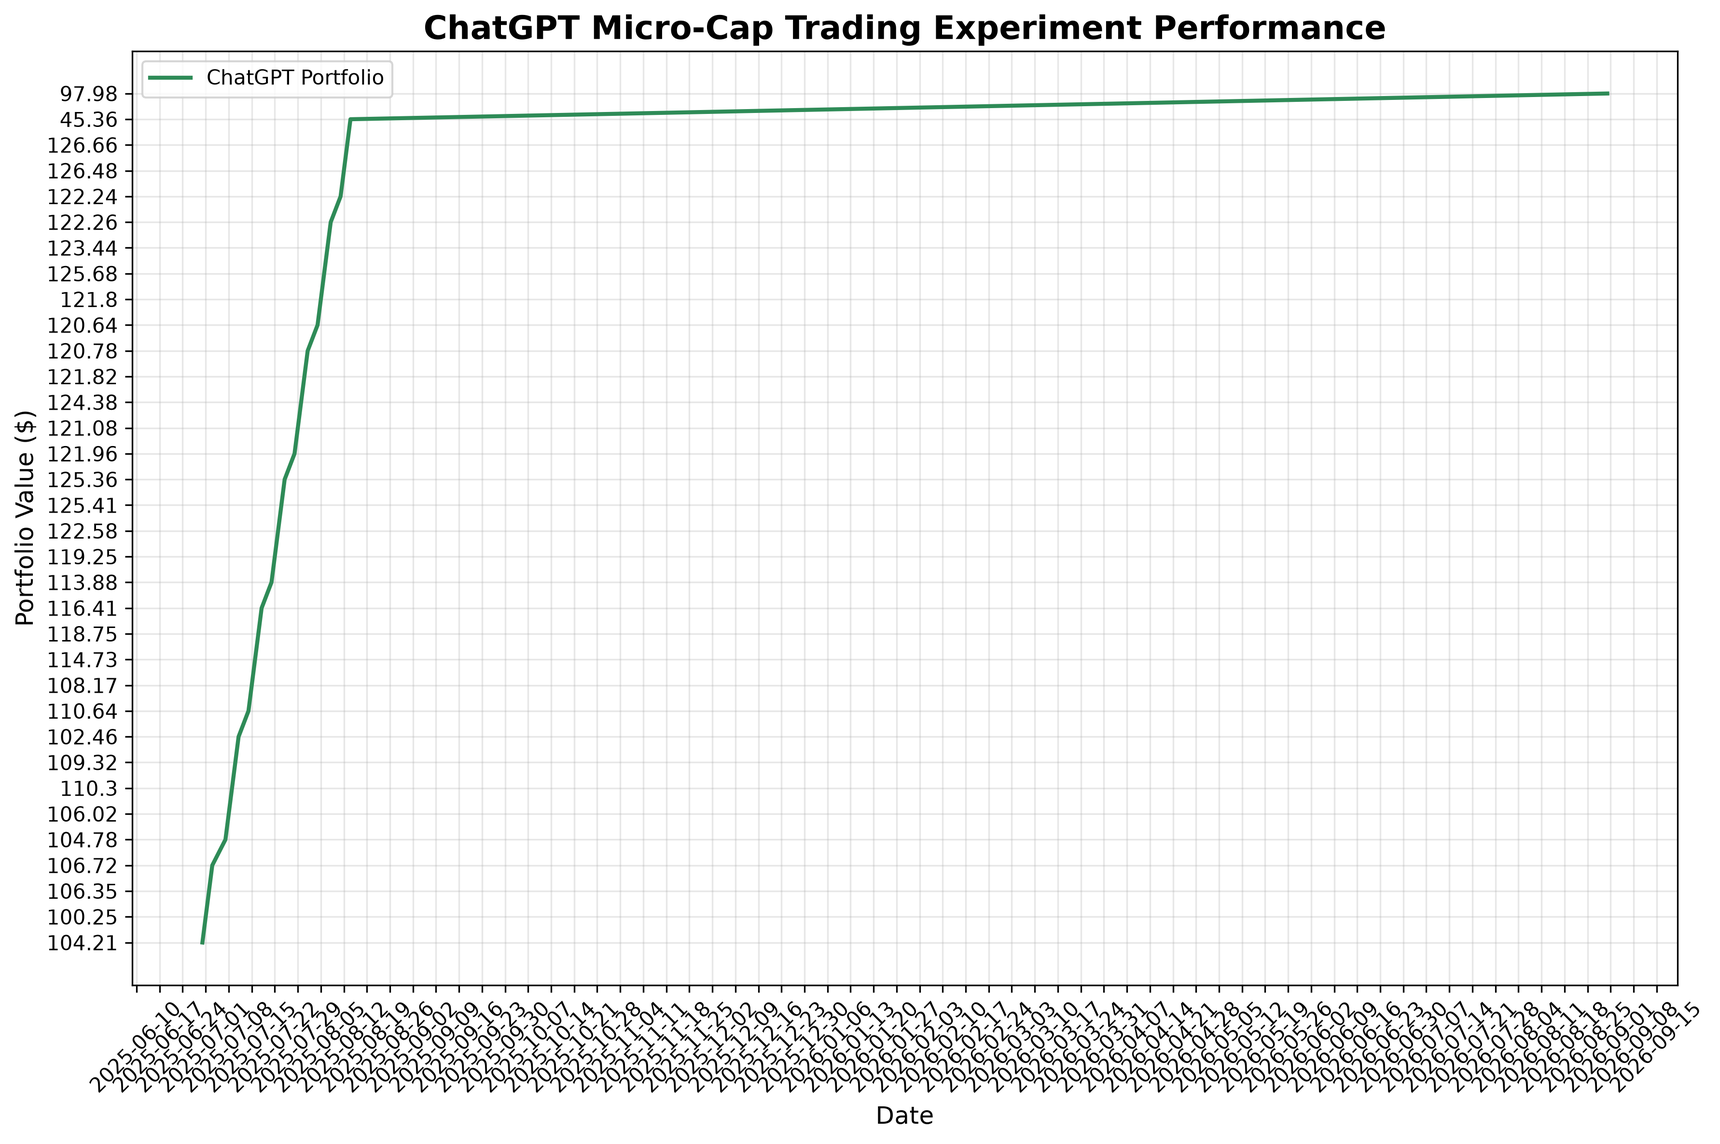
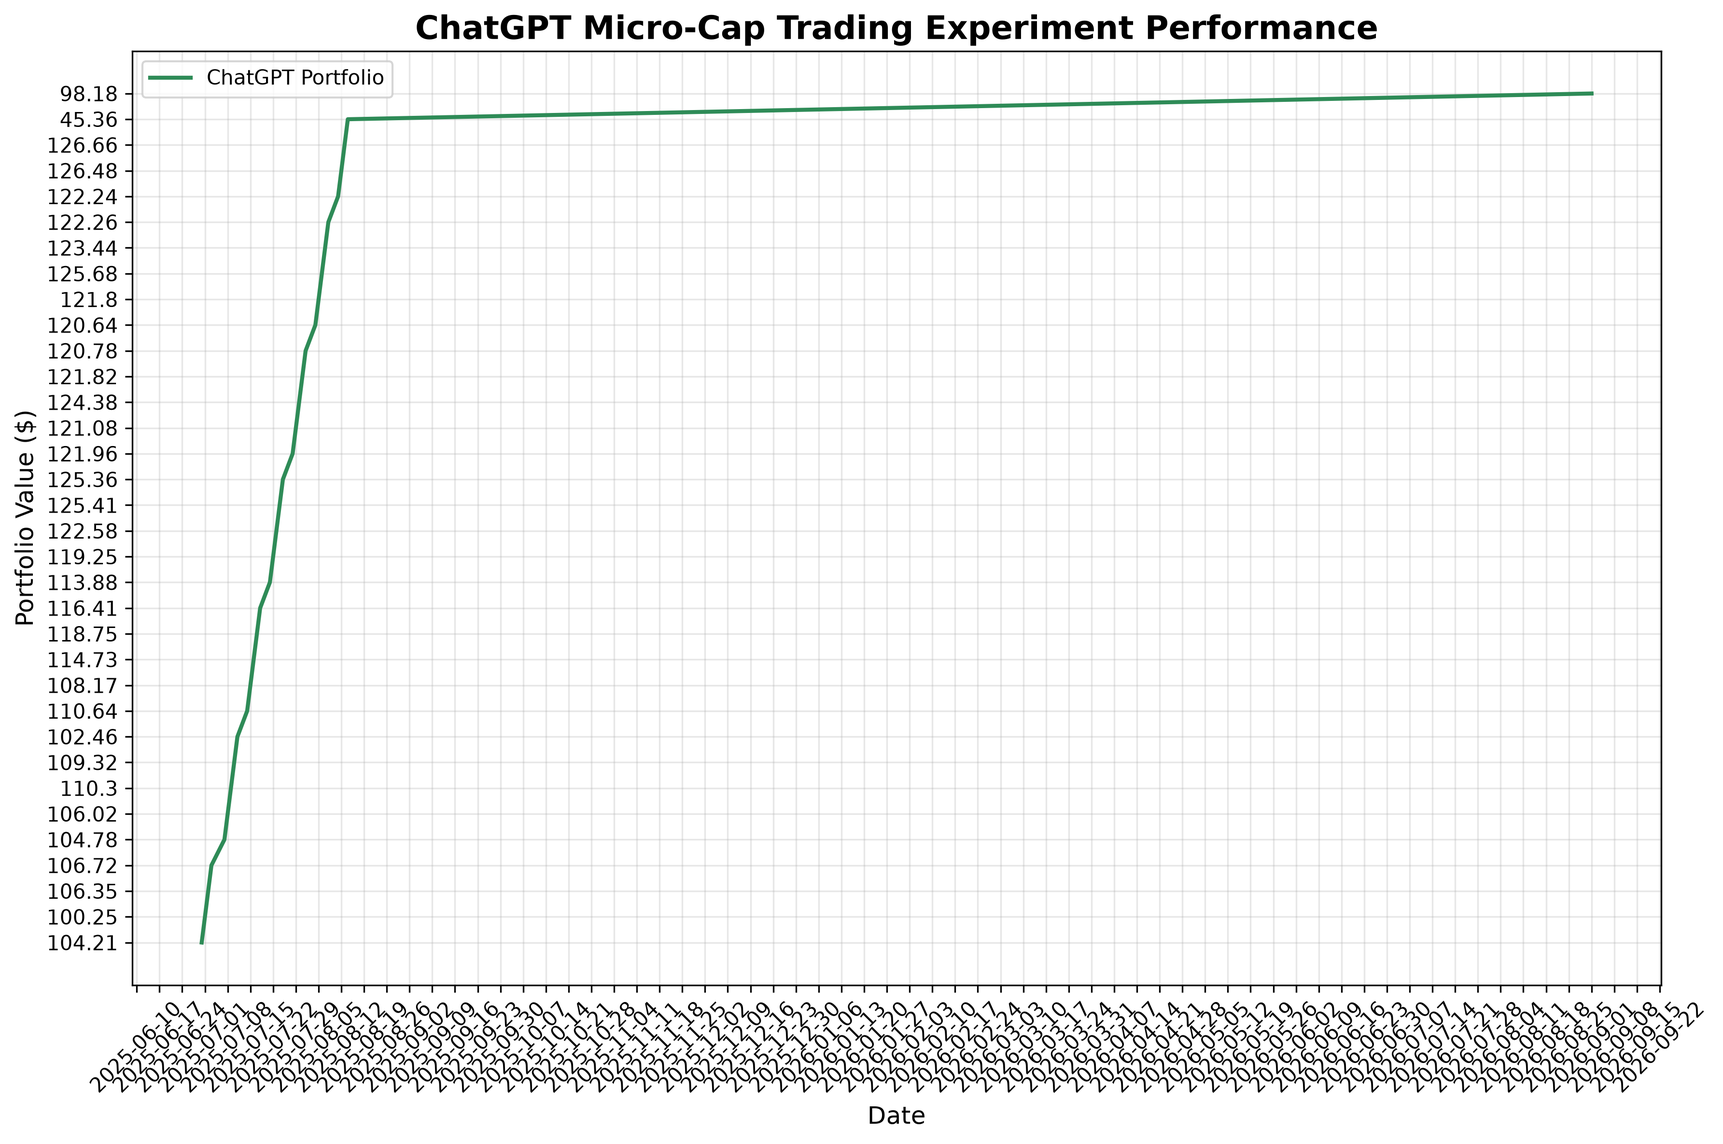
deploy: e15cad030d70fb3fbb51f9df6e22fa70c2f175c0

diff --git a/index.html b/index.html
@@ -105,7 +105,7 @@
                 <div class="stat-label">Total Trades</div>
             </div>
             <div class="stat-card">
-                <div class="stat-value" id="last-updated">2026-08-31</div>
+                <div class="stat-value" id="last-updated">2026-09-01</div>
                 <div class="stat-label">Last Updated</div>
             </div>
         </div>
@@ -160,8 +160,8 @@
     
     <script>
         // Portfolio data
-        const portfolioData = JSON.parse("[{&quot;Date&quot;: &quot;2025-08-11&quot;, &quot;Ticker&quot;: &quot;ABEO&quot;, &quot;Shares&quot;: 4.0, &quot;Buy Price&quot;: 5.77, &quot;Cost Basis&quot;: 23.08, &quot;Stop Loss&quot;: 4.9, &quot;Current Price&quot;: 6.28, &quot;Total Value&quot;: 25.12, &quot;PnL&quot;: 2.04, &quot;Action&quot;: &quot;HOLD&quot;, &quot;Cash Balance&quot;: NaN, &quot;Total Equity&quot;: NaN}, {&quot;Date&quot;: &quot;2025-08-11&quot;, &quot;Ticker&quot;: &quot;ACTU&quot;, &quot;Shares&quot;: 6.0, &quot;Buy Price&quot;: 5.75, &quot;Cost Basis&quot;: 34.5, &quot;Stop Loss&quot;: 4.89, &quot;Current Price&quot;: 8.01, &quot;Total Value&quot;: 48.06, &quot;PnL&quot;: 13.56, &quot;Action&quot;: &quot;HOLD&quot;, &quot;Cash Balance&quot;: NaN, &quot;Total Equity&quot;: NaN}, {&quot;Date&quot;: &quot;2025-08-11&quot;, &quot;Ticker&quot;: &quot;ESPR&quot;, &quot;Shares&quot;: 2.0, &quot;Buy Price&quot;: 1.91, &quot;Cost Basis&quot;: 3.82, &quot;Stop Loss&quot;: 1.6, &quot;Current Price&quot;: 1.85, &quot;Total Value&quot;: 3.7, &quot;PnL&quot;: -0.12, &quot;Action&quot;: &quot;HOLD&quot;, &quot;Cash Balance&quot;: NaN, &quot;Total Equity&quot;: NaN}, {&quot;Date&quot;: &quot;2025-08-11&quot;, &quot;Ticker&quot;: &quot;TOTAL&quot;, &quot;Shares&quot;: NaN, &quot;Buy Price&quot;: NaN, &quot;Cost Basis&quot;: NaN, &quot;Stop Loss&quot;: NaN, &quot;Current Price&quot;: NaN, &quot;Total Value&quot;: 76.88, &quot;PnL&quot;: 15.48, &quot;Action&quot;: NaN, &quot;Cash Balance&quot;: 45.36, &quot;Total Equity&quot;: &quot;122.24&quot;}, {&quot;Date&quot;: &quot;2025-08-12&quot;, &quot;Ticker&quot;: &quot;ABEO&quot;, &quot;Shares&quot;: 4.0, &quot;Buy Price&quot;: 5.77, &quot;Cost Basis&quot;: 23.08, &quot;Stop Loss&quot;: 4.9, &quot;Current Price&quot;: 6.38, &quot;Total Value&quot;: 25.52, &quot;PnL&quot;: 2.44, &quot;Action&quot;: &quot;HOLD&quot;, &quot;Cash Balance&quot;: NaN, &quot;Total Equity&quot;: NaN}, {&quot;Date&quot;: &quot;2025-08-12&quot;, &quot;Ticker&quot;: &quot;ACTU&quot;, &quot;Shares&quot;: 6.0, &quot;Buy Price&quot;: 5.75, &quot;Cost Basis&quot;: 34.5, &quot;Stop Loss&quot;: 4.89, &quot;Current Price&quot;: 8.67, &quot;Total Value&quot;: 52.02, &quot;PnL&quot;: 17.52, &quot;Action&quot;: &quot;HOLD&quot;, &quot;Cash Balance&quot;: NaN, &quot;Total Equity&quot;: NaN}, {&quot;Date&quot;: &quot;2025-08-12&quot;, &quot;Ticker&quot;: &quot;ESPR&quot;, &quot;Shares&quot;: 2.0, &quot;Buy Price&quot;: 1.91, &quot;Cost Basis&quot;: 3.82, &quot;Stop Loss&quot;: 1.6, &quot;Current Price&quot;: 1.79, &quot;Total Value&quot;: 3.58, &quot;PnL&quot;: -0.24, &quot;Action&quot;: &quot;HOLD&quot;, &quot;Cash Balance&quot;: NaN, &quot;Total Equity&quot;: NaN}, {&quot;Date&quot;: &quot;2025-08-12&quot;, &quot;Ticker&quot;: &quot;TOTAL&quot;, &quot;Shares&quot;: NaN, &quot;Buy Price&quot;: NaN, &quot;Cost Basis&quot;: NaN, &quot;Stop Loss&quot;: NaN, &quot;Current Price&quot;: NaN, &quot;Total Value&quot;: 81.12, &quot;PnL&quot;: 19.72, &quot;Action&quot;: NaN, &quot;Cash Balance&quot;: 45.36, &quot;Total Equity&quot;: &quot;126.48&quot;}, {&quot;Date&quot;: &quot;2025-08-13&quot;, &quot;Ticker&quot;: &quot;ABEO&quot;, &quot;Shares&quot;: 4.0, &quot;Buy Price&quot;: 5.77, &quot;Cost Basis&quot;: 23.08, &quot;Stop Loss&quot;: 4.9, &quot;Current Price&quot;: 6.56, &quot;Total Value&quot;: 26.24, &quot;PnL&quot;: 3.16, &quot;Action&quot;: &quot;HOLD&quot;, &quot;Cash Balance&quot;: NaN, &quot;Total Equity&quot;: NaN}, {&quot;Date&quot;: &quot;2025-08-13&quot;, &quot;Ticker&quot;: &quot;ACTU&quot;, &quot;Shares&quot;: 6.0, &quot;Buy Price&quot;: 5.75, &quot;Cost Basis&quot;: 34.5, &quot;Stop Loss&quot;: 4.89, &quot;Current Price&quot;: 8.53, &quot;Total Value&quot;: 51.18, &quot;PnL&quot;: 16.68, &quot;Action&quot;: &quot;HOLD&quot;, &quot;Cash Balance&quot;: NaN, &quot;Total Equity&quot;: NaN}, {&quot;Date&quot;: &quot;2025-08-13&quot;, &quot;Ticker&quot;: &quot;ESPR&quot;, &quot;Shares&quot;: 2.0, &quot;Buy Price&quot;: 1.91, &quot;Cost Basis&quot;: 3.82, &quot;Stop Loss&quot;: 1.6, &quot;Current Price&quot;: 1.94, &quot;Total Value&quot;: 3.88, &quot;PnL&quot;: 0.06, &quot;Action&quot;: &quot;HOLD&quot;, &quot;Cash Balance&quot;: NaN, &quot;Total Equity&quot;: NaN}, {&quot;Date&quot;: &quot;2025-08-13&quot;, &quot;Ticker&quot;: &quot;TOTAL&quot;, &quot;Shares&quot;: NaN, &quot;Buy Price&quot;: NaN, &quot;Cost Basis&quot;: NaN, &quot;Stop Loss&quot;: NaN, &quot;Current Price&quot;: NaN, &quot;Total Value&quot;: 81.3, &quot;PnL&quot;: 19.9, &quot;Action&quot;: NaN, &quot;Cash Balance&quot;: 45.36, &quot;Total Equity&quot;: &quot;126.66&quot;}, {&quot;Date&quot;: &quot;2025-08-14&quot;, &quot;Ticker&quot;: &quot;ABEO&quot;, &quot;Shares&quot;: 4.0, &quot;Buy Price&quot;: 5.77, &quot;Cost Basis&quot;: 23.08, &quot;Stop Loss&quot;: 4.9, &quot;Current Price&quot;: NaN, &quot;Total Value&quot;: NaN, &quot;PnL&quot;: NaN, &quot;Action&quot;: &quot;NO DATA&quot;, &quot;Cash Balance&quot;: NaN, &quot;Total Equity&quot;: NaN}, {&quot;Date&quot;: &quot;2025-08-14&quot;, &quot;Ticker&quot;: &quot;ACTU&quot;, &quot;Shares&quot;: 6.0, &quot;Buy Price&quot;: 5.75, &quot;Cost Basis&quot;: 34.5, &quot;Stop Loss&quot;: 4.89, &quot;Current Price&quot;: NaN, &quot;Total Value&quot;: NaN, &quot;PnL&quot;: NaN, &quot;Action&quot;: &quot;NO DATA&quot;, &quot;Cash Balance&quot;: NaN, &quot;Total Equity&quot;: NaN}, {&quot;Date&quot;: &quot;2025-08-14&quot;, &quot;Ticker&quot;: &quot;ESPR&quot;, &quot;Shares&quot;: 2.0, &quot;Buy Price&quot;: 1.91, &quot;Cost Basis&quot;: 3.82, &quot;Stop Loss&quot;: 1.6, &quot;Current Price&quot;: NaN, &quot;Total Value&quot;: NaN, &quot;PnL&quot;: NaN, &quot;Action&quot;: &quot;NO DATA&quot;, &quot;Cash Balance&quot;: NaN, &quot;Total Equity&quot;: NaN}, {&quot;Date&quot;: &quot;2025-08-14&quot;, &quot;Ticker&quot;: &quot;TOTAL&quot;, &quot;Shares&quot;: NaN, &quot;Buy Price&quot;: NaN, &quot;Cost Basis&quot;: NaN, &quot;Stop Loss&quot;: NaN, &quot;Current Price&quot;: NaN, &quot;Total Value&quot;: 0.0, &quot;PnL&quot;: 0.0, &quot;Action&quot;: NaN, &quot;Cash Balance&quot;: 45.36, &quot;Total Equity&quot;: &quot;45.36&quot;}, {&quot;Date&quot;: &quot;2026-08-31&quot;, &quot;Ticker&quot;: &quot;ABEO&quot;, &quot;Shares&quot;: 4.0, &quot;Buy Price&quot;: 5.77, &quot;Cost Basis&quot;: 23.08, &quot;Stop Loss&quot;: 4.9, &quot;Current Price&quot;: 5.82, &quot;Total Value&quot;: 23.28, &quot;PnL&quot;: 0.2, &quot;Action&quot;: &quot;HOLD&quot;, &quot;Cash Balance&quot;: NaN, &quot;Total Equity&quot;: NaN}, {&quot;Date&quot;: &quot;2026-08-31&quot;, &quot;Ticker&quot;: &quot;ACTU&quot;, &quot;Shares&quot;: 6.0, &quot;Buy Price&quot;: 5.75, &quot;Cost Basis&quot;: 34.5, &quot;Stop Loss&quot;: 4.89, &quot;Current Price&quot;: 4.89, &quot;Total Value&quot;: 29.34, &quot;PnL&quot;: -5.16, &quot;Action&quot;: &quot;SELL - Stop Loss Triggered&quot;, &quot;Cash Balance&quot;: NaN, &quot;Total Equity&quot;: NaN}, {&quot;Date&quot;: &quot;2026-08-31&quot;, &quot;Ticker&quot;: &quot;ESPR&quot;, &quot;Shares&quot;: 2.0, &quot;Buy Price&quot;: 1.91, &quot;Cost Basis&quot;: 3.82, &quot;Stop Loss&quot;: 1.6, &quot;Current Price&quot;: NaN, &quot;Total Value&quot;: NaN, &quot;PnL&quot;: NaN, &quot;Action&quot;: &quot;NO DATA&quot;, &quot;Cash Balance&quot;: NaN, &quot;Total Equity&quot;: NaN}, {&quot;Date&quot;: &quot;2026-08-31&quot;, &quot;Ticker&quot;: &quot;TOTAL&quot;, &quot;Shares&quot;: NaN, &quot;Buy Price&quot;: NaN, &quot;Cost Basis&quot;: NaN, &quot;Stop Loss&quot;: NaN, &quot;Current Price&quot;: NaN, &quot;Total Value&quot;: 23.28, &quot;PnL&quot;: 0.2, &quot;Action&quot;: NaN, &quot;Cash Balance&quot;: 74.7, &quot;Total Equity&quot;: &quot;97.98&quot;}]");
-        const tradeData = JSON.parse("[{&quot;Date&quot;: &quot;2025-07-08&quot;, &quot;Ticker&quot;: &quot;IINN&quot;, &quot;Shares Bought&quot;: 20.0, &quot;Buy Price&quot;: 1.5, &quot;Cost Basis&quot;: 30.0, &quot;PnL&quot;: 0.0, &quot;Reason&quot;: &quot;MANUAL BUY - New position&quot;, &quot;Shares Sold&quot;: NaN, &quot;Sell Price&quot;: NaN}, {&quot;Date&quot;: &quot;2025-07-21&quot;, &quot;Ticker&quot;: &quot;CADL&quot;, &quot;Shares Bought&quot;: NaN, &quot;Buy Price&quot;: NaN, &quot;Cost Basis&quot;: 25.2, &quot;PnL&quot;: 8.5, &quot;Reason&quot;: &quot;MANUAL SELL - GAIN CAPITAL FOR ACTU&quot;, &quot;Shares Sold&quot;: 5.0, &quot;Sell Price&quot;: 6.59}, {&quot;Date&quot;: &quot;2025-07-21&quot;, &quot;Ticker&quot;: &quot;ACTU&quot;, &quot;Shares Bought&quot;: 6.0, &quot;Buy Price&quot;: 5.75, &quot;Cost Basis&quot;: 34.5, &quot;PnL&quot;: 0.0, &quot;Reason&quot;: &quot;MANUAL BUY - New position&quot;, &quot;Shares Sold&quot;: NaN, &quot;Sell Price&quot;: NaN}, {&quot;Date&quot;: &quot;2025-07-28&quot;, &quot;Ticker&quot;: &quot;IINN&quot;, &quot;Shares Bought&quot;: NaN, &quot;Buy Price&quot;: NaN, &quot;Cost Basis&quot;: 9.0, &quot;PnL&quot;: -0.5400000000000009, &quot;Reason&quot;: &quot;MANUAL SELL - POSITION REDUCTION&quot;, &quot;Shares Sold&quot;: 6.0, &quot;Sell Price&quot;: 1.41}, {&quot;Date&quot;: &quot;2025-07-29&quot;, &quot;Ticker&quot;: &quot;AZTR&quot;, &quot;Shares Bought&quot;: NaN, &quot;Buy Price&quot;: NaN, &quot;Cost Basis&quot;: 13.75, &quot;PnL&quot;: -2.75, &quot;Reason&quot;: &quot;MANUAL SELL - DILUTION RISK&quot;, &quot;Shares Sold&quot;: 55.0, &quot;Sell Price&quot;: 0.2}, {&quot;Date&quot;: &quot;2025-08-01&quot;, &quot;Ticker&quot;: &quot;IINN&quot;, &quot;Shares Bought&quot;: 2.0, &quot;Buy Price&quot;: 1.74, &quot;Cost Basis&quot;: 3.48, &quot;PnL&quot;: 0.0, &quot;Reason&quot;: &quot;MANUAL BUY - New position&quot;, &quot;Shares Sold&quot;: NaN, &quot;Sell Price&quot;: NaN}, {&quot;Date&quot;: &quot;2025-08-01&quot;, &quot;Ticker&quot;: &quot;ABEO&quot;, &quot;Shares Bought&quot;: NaN, &quot;Buy Price&quot;: NaN, &quot;Cost Basis&quot;: 11.54, &quot;PnL&quot;: 1.200000000000001, &quot;Reason&quot;: &quot;MANUAL SELL - TRIM AFTER SUPPORT LOSS&quot;, &quot;Shares Sold&quot;: 2.0, &quot;Sell Price&quot;: 6.37}, {&quot;Date&quot;: &quot;2025-08-07&quot;, &quot;Ticker&quot;: &quot;ESPR&quot;, &quot;Shares Bought&quot;: 2.0, &quot;Buy Price&quot;: 1.91, &quot;Cost Basis&quot;: 3.82, &quot;PnL&quot;: 0.0, &quot;Reason&quot;: &quot;MANUAL BUY - New position&quot;, &quot;Shares Sold&quot;: NaN, &quot;Sell Price&quot;: NaN}, {&quot;Date&quot;: &quot;2025-08-08&quot;, &quot;Ticker&quot;: &quot;IINN&quot;, &quot;Shares Bought&quot;: NaN, &quot;Buy Price&quot;: NaN, &quot;Cost Basis&quot;: 1.5, &quot;PnL&quot;: -6.4, &quot;Reason&quot;: &quot;AUTOMATED SELL - STOPLOSS TRIGGERED&quot;, &quot;Shares Sold&quot;: 16.0, &quot;Sell Price&quot;: 1.1}, {&quot;Date&quot;: &quot;2026-08-31&quot;, &quot;Ticker&quot;: &quot;ACTU&quot;, &quot;Shares Bought&quot;: NaN, &quot;Buy Price&quot;: NaN, &quot;Cost Basis&quot;: 5.75, &quot;PnL&quot;: -5.16, &quot;Reason&quot;: &quot;AUTOMATED SELL - STOPLOSS TRIGGERED&quot;, &quot;Shares Sold&quot;: 6.0, &quot;Sell Price&quot;: 4.89}]");
+        const portfolioData = JSON.parse("[{&quot;Date&quot;: &quot;2025-08-11&quot;, &quot;Ticker&quot;: &quot;ABEO&quot;, &quot;Shares&quot;: 4.0, &quot;Buy Price&quot;: 5.77, &quot;Cost Basis&quot;: 23.08, &quot;Stop Loss&quot;: 4.9, &quot;Current Price&quot;: 6.28, &quot;Total Value&quot;: 25.12, &quot;PnL&quot;: 2.04, &quot;Action&quot;: &quot;HOLD&quot;, &quot;Cash Balance&quot;: NaN, &quot;Total Equity&quot;: NaN}, {&quot;Date&quot;: &quot;2025-08-11&quot;, &quot;Ticker&quot;: &quot;ACTU&quot;, &quot;Shares&quot;: 6.0, &quot;Buy Price&quot;: 5.75, &quot;Cost Basis&quot;: 34.5, &quot;Stop Loss&quot;: 4.89, &quot;Current Price&quot;: 8.01, &quot;Total Value&quot;: 48.06, &quot;PnL&quot;: 13.56, &quot;Action&quot;: &quot;HOLD&quot;, &quot;Cash Balance&quot;: NaN, &quot;Total Equity&quot;: NaN}, {&quot;Date&quot;: &quot;2025-08-11&quot;, &quot;Ticker&quot;: &quot;ESPR&quot;, &quot;Shares&quot;: 2.0, &quot;Buy Price&quot;: 1.91, &quot;Cost Basis&quot;: 3.82, &quot;Stop Loss&quot;: 1.6, &quot;Current Price&quot;: 1.85, &quot;Total Value&quot;: 3.7, &quot;PnL&quot;: -0.12, &quot;Action&quot;: &quot;HOLD&quot;, &quot;Cash Balance&quot;: NaN, &quot;Total Equity&quot;: NaN}, {&quot;Date&quot;: &quot;2025-08-11&quot;, &quot;Ticker&quot;: &quot;TOTAL&quot;, &quot;Shares&quot;: NaN, &quot;Buy Price&quot;: NaN, &quot;Cost Basis&quot;: NaN, &quot;Stop Loss&quot;: NaN, &quot;Current Price&quot;: NaN, &quot;Total Value&quot;: 76.88, &quot;PnL&quot;: 15.48, &quot;Action&quot;: NaN, &quot;Cash Balance&quot;: 45.36, &quot;Total Equity&quot;: &quot;122.24&quot;}, {&quot;Date&quot;: &quot;2025-08-12&quot;, &quot;Ticker&quot;: &quot;ABEO&quot;, &quot;Shares&quot;: 4.0, &quot;Buy Price&quot;: 5.77, &quot;Cost Basis&quot;: 23.08, &quot;Stop Loss&quot;: 4.9, &quot;Current Price&quot;: 6.38, &quot;Total Value&quot;: 25.52, &quot;PnL&quot;: 2.44, &quot;Action&quot;: &quot;HOLD&quot;, &quot;Cash Balance&quot;: NaN, &quot;Total Equity&quot;: NaN}, {&quot;Date&quot;: &quot;2025-08-12&quot;, &quot;Ticker&quot;: &quot;ACTU&quot;, &quot;Shares&quot;: 6.0, &quot;Buy Price&quot;: 5.75, &quot;Cost Basis&quot;: 34.5, &quot;Stop Loss&quot;: 4.89, &quot;Current Price&quot;: 8.67, &quot;Total Value&quot;: 52.02, &quot;PnL&quot;: 17.52, &quot;Action&quot;: &quot;HOLD&quot;, &quot;Cash Balance&quot;: NaN, &quot;Total Equity&quot;: NaN}, {&quot;Date&quot;: &quot;2025-08-12&quot;, &quot;Ticker&quot;: &quot;ESPR&quot;, &quot;Shares&quot;: 2.0, &quot;Buy Price&quot;: 1.91, &quot;Cost Basis&quot;: 3.82, &quot;Stop Loss&quot;: 1.6, &quot;Current Price&quot;: 1.79, &quot;Total Value&quot;: 3.58, &quot;PnL&quot;: -0.24, &quot;Action&quot;: &quot;HOLD&quot;, &quot;Cash Balance&quot;: NaN, &quot;Total Equity&quot;: NaN}, {&quot;Date&quot;: &quot;2025-08-12&quot;, &quot;Ticker&quot;: &quot;TOTAL&quot;, &quot;Shares&quot;: NaN, &quot;Buy Price&quot;: NaN, &quot;Cost Basis&quot;: NaN, &quot;Stop Loss&quot;: NaN, &quot;Current Price&quot;: NaN, &quot;Total Value&quot;: 81.12, &quot;PnL&quot;: 19.72, &quot;Action&quot;: NaN, &quot;Cash Balance&quot;: 45.36, &quot;Total Equity&quot;: &quot;126.48&quot;}, {&quot;Date&quot;: &quot;2025-08-13&quot;, &quot;Ticker&quot;: &quot;ABEO&quot;, &quot;Shares&quot;: 4.0, &quot;Buy Price&quot;: 5.77, &quot;Cost Basis&quot;: 23.08, &quot;Stop Loss&quot;: 4.9, &quot;Current Price&quot;: 6.56, &quot;Total Value&quot;: 26.24, &quot;PnL&quot;: 3.16, &quot;Action&quot;: &quot;HOLD&quot;, &quot;Cash Balance&quot;: NaN, &quot;Total Equity&quot;: NaN}, {&quot;Date&quot;: &quot;2025-08-13&quot;, &quot;Ticker&quot;: &quot;ACTU&quot;, &quot;Shares&quot;: 6.0, &quot;Buy Price&quot;: 5.75, &quot;Cost Basis&quot;: 34.5, &quot;Stop Loss&quot;: 4.89, &quot;Current Price&quot;: 8.53, &quot;Total Value&quot;: 51.18, &quot;PnL&quot;: 16.68, &quot;Action&quot;: &quot;HOLD&quot;, &quot;Cash Balance&quot;: NaN, &quot;Total Equity&quot;: NaN}, {&quot;Date&quot;: &quot;2025-08-13&quot;, &quot;Ticker&quot;: &quot;ESPR&quot;, &quot;Shares&quot;: 2.0, &quot;Buy Price&quot;: 1.91, &quot;Cost Basis&quot;: 3.82, &quot;Stop Loss&quot;: 1.6, &quot;Current Price&quot;: 1.94, &quot;Total Value&quot;: 3.88, &quot;PnL&quot;: 0.06, &quot;Action&quot;: &quot;HOLD&quot;, &quot;Cash Balance&quot;: NaN, &quot;Total Equity&quot;: NaN}, {&quot;Date&quot;: &quot;2025-08-13&quot;, &quot;Ticker&quot;: &quot;TOTAL&quot;, &quot;Shares&quot;: NaN, &quot;Buy Price&quot;: NaN, &quot;Cost Basis&quot;: NaN, &quot;Stop Loss&quot;: NaN, &quot;Current Price&quot;: NaN, &quot;Total Value&quot;: 81.3, &quot;PnL&quot;: 19.9, &quot;Action&quot;: NaN, &quot;Cash Balance&quot;: 45.36, &quot;Total Equity&quot;: &quot;126.66&quot;}, {&quot;Date&quot;: &quot;2025-08-14&quot;, &quot;Ticker&quot;: &quot;ABEO&quot;, &quot;Shares&quot;: 4.0, &quot;Buy Price&quot;: 5.77, &quot;Cost Basis&quot;: 23.08, &quot;Stop Loss&quot;: 4.9, &quot;Current Price&quot;: NaN, &quot;Total Value&quot;: NaN, &quot;PnL&quot;: NaN, &quot;Action&quot;: &quot;NO DATA&quot;, &quot;Cash Balance&quot;: NaN, &quot;Total Equity&quot;: NaN}, {&quot;Date&quot;: &quot;2025-08-14&quot;, &quot;Ticker&quot;: &quot;ACTU&quot;, &quot;Shares&quot;: 6.0, &quot;Buy Price&quot;: 5.75, &quot;Cost Basis&quot;: 34.5, &quot;Stop Loss&quot;: 4.89, &quot;Current Price&quot;: NaN, &quot;Total Value&quot;: NaN, &quot;PnL&quot;: NaN, &quot;Action&quot;: &quot;NO DATA&quot;, &quot;Cash Balance&quot;: NaN, &quot;Total Equity&quot;: NaN}, {&quot;Date&quot;: &quot;2025-08-14&quot;, &quot;Ticker&quot;: &quot;ESPR&quot;, &quot;Shares&quot;: 2.0, &quot;Buy Price&quot;: 1.91, &quot;Cost Basis&quot;: 3.82, &quot;Stop Loss&quot;: 1.6, &quot;Current Price&quot;: NaN, &quot;Total Value&quot;: NaN, &quot;PnL&quot;: NaN, &quot;Action&quot;: &quot;NO DATA&quot;, &quot;Cash Balance&quot;: NaN, &quot;Total Equity&quot;: NaN}, {&quot;Date&quot;: &quot;2025-08-14&quot;, &quot;Ticker&quot;: &quot;TOTAL&quot;, &quot;Shares&quot;: NaN, &quot;Buy Price&quot;: NaN, &quot;Cost Basis&quot;: NaN, &quot;Stop Loss&quot;: NaN, &quot;Current Price&quot;: NaN, &quot;Total Value&quot;: 0.0, &quot;PnL&quot;: 0.0, &quot;Action&quot;: NaN, &quot;Cash Balance&quot;: 45.36, &quot;Total Equity&quot;: &quot;45.36&quot;}, {&quot;Date&quot;: &quot;2026-09-01&quot;, &quot;Ticker&quot;: &quot;ABEO&quot;, &quot;Shares&quot;: 4.0, &quot;Buy Price&quot;: 5.77, &quot;Cost Basis&quot;: 23.08, &quot;Stop Loss&quot;: 4.9, &quot;Current Price&quot;: 5.87, &quot;Total Value&quot;: 23.48, &quot;PnL&quot;: 0.4, &quot;Action&quot;: &quot;HOLD&quot;, &quot;Cash Balance&quot;: NaN, &quot;Total Equity&quot;: NaN}, {&quot;Date&quot;: &quot;2026-09-01&quot;, &quot;Ticker&quot;: &quot;ACTU&quot;, &quot;Shares&quot;: 6.0, &quot;Buy Price&quot;: 5.75, &quot;Cost Basis&quot;: 34.5, &quot;Stop Loss&quot;: 4.89, &quot;Current Price&quot;: 4.89, &quot;Total Value&quot;: 29.34, &quot;PnL&quot;: -5.16, &quot;Action&quot;: &quot;SELL - Stop Loss Triggered&quot;, &quot;Cash Balance&quot;: NaN, &quot;Total Equity&quot;: NaN}, {&quot;Date&quot;: &quot;2026-09-01&quot;, &quot;Ticker&quot;: &quot;ESPR&quot;, &quot;Shares&quot;: 2.0, &quot;Buy Price&quot;: 1.91, &quot;Cost Basis&quot;: 3.82, &quot;Stop Loss&quot;: 1.6, &quot;Current Price&quot;: NaN, &quot;Total Value&quot;: NaN, &quot;PnL&quot;: NaN, &quot;Action&quot;: &quot;NO DATA&quot;, &quot;Cash Balance&quot;: NaN, &quot;Total Equity&quot;: NaN}, {&quot;Date&quot;: &quot;2026-09-01&quot;, &quot;Ticker&quot;: &quot;TOTAL&quot;, &quot;Shares&quot;: NaN, &quot;Buy Price&quot;: NaN, &quot;Cost Basis&quot;: NaN, &quot;Stop Loss&quot;: NaN, &quot;Current Price&quot;: NaN, &quot;Total Value&quot;: 23.48, &quot;PnL&quot;: 0.4, &quot;Action&quot;: NaN, &quot;Cash Balance&quot;: 74.7, &quot;Total Equity&quot;: &quot;98.18&quot;}]");
+        const tradeData = JSON.parse("[{&quot;Date&quot;: &quot;2025-07-08&quot;, &quot;Ticker&quot;: &quot;IINN&quot;, &quot;Shares Bought&quot;: 20.0, &quot;Buy Price&quot;: 1.5, &quot;Cost Basis&quot;: 30.0, &quot;PnL&quot;: 0.0, &quot;Reason&quot;: &quot;MANUAL BUY - New position&quot;, &quot;Shares Sold&quot;: NaN, &quot;Sell Price&quot;: NaN}, {&quot;Date&quot;: &quot;2025-07-21&quot;, &quot;Ticker&quot;: &quot;CADL&quot;, &quot;Shares Bought&quot;: NaN, &quot;Buy Price&quot;: NaN, &quot;Cost Basis&quot;: 25.2, &quot;PnL&quot;: 8.5, &quot;Reason&quot;: &quot;MANUAL SELL - GAIN CAPITAL FOR ACTU&quot;, &quot;Shares Sold&quot;: 5.0, &quot;Sell Price&quot;: 6.59}, {&quot;Date&quot;: &quot;2025-07-21&quot;, &quot;Ticker&quot;: &quot;ACTU&quot;, &quot;Shares Bought&quot;: 6.0, &quot;Buy Price&quot;: 5.75, &quot;Cost Basis&quot;: 34.5, &quot;PnL&quot;: 0.0, &quot;Reason&quot;: &quot;MANUAL BUY - New position&quot;, &quot;Shares Sold&quot;: NaN, &quot;Sell Price&quot;: NaN}, {&quot;Date&quot;: &quot;2025-07-28&quot;, &quot;Ticker&quot;: &quot;IINN&quot;, &quot;Shares Bought&quot;: NaN, &quot;Buy Price&quot;: NaN, &quot;Cost Basis&quot;: 9.0, &quot;PnL&quot;: -0.5400000000000009, &quot;Reason&quot;: &quot;MANUAL SELL - POSITION REDUCTION&quot;, &quot;Shares Sold&quot;: 6.0, &quot;Sell Price&quot;: 1.41}, {&quot;Date&quot;: &quot;2025-07-29&quot;, &quot;Ticker&quot;: &quot;AZTR&quot;, &quot;Shares Bought&quot;: NaN, &quot;Buy Price&quot;: NaN, &quot;Cost Basis&quot;: 13.75, &quot;PnL&quot;: -2.75, &quot;Reason&quot;: &quot;MANUAL SELL - DILUTION RISK&quot;, &quot;Shares Sold&quot;: 55.0, &quot;Sell Price&quot;: 0.2}, {&quot;Date&quot;: &quot;2025-08-01&quot;, &quot;Ticker&quot;: &quot;IINN&quot;, &quot;Shares Bought&quot;: 2.0, &quot;Buy Price&quot;: 1.74, &quot;Cost Basis&quot;: 3.48, &quot;PnL&quot;: 0.0, &quot;Reason&quot;: &quot;MANUAL BUY - New position&quot;, &quot;Shares Sold&quot;: NaN, &quot;Sell Price&quot;: NaN}, {&quot;Date&quot;: &quot;2025-08-01&quot;, &quot;Ticker&quot;: &quot;ABEO&quot;, &quot;Shares Bought&quot;: NaN, &quot;Buy Price&quot;: NaN, &quot;Cost Basis&quot;: 11.54, &quot;PnL&quot;: 1.200000000000001, &quot;Reason&quot;: &quot;MANUAL SELL - TRIM AFTER SUPPORT LOSS&quot;, &quot;Shares Sold&quot;: 2.0, &quot;Sell Price&quot;: 6.37}, {&quot;Date&quot;: &quot;2025-08-07&quot;, &quot;Ticker&quot;: &quot;ESPR&quot;, &quot;Shares Bought&quot;: 2.0, &quot;Buy Price&quot;: 1.91, &quot;Cost Basis&quot;: 3.82, &quot;PnL&quot;: 0.0, &quot;Reason&quot;: &quot;MANUAL BUY - New position&quot;, &quot;Shares Sold&quot;: NaN, &quot;Sell Price&quot;: NaN}, {&quot;Date&quot;: &quot;2025-08-08&quot;, &quot;Ticker&quot;: &quot;IINN&quot;, &quot;Shares Bought&quot;: NaN, &quot;Buy Price&quot;: NaN, &quot;Cost Basis&quot;: 1.5, &quot;PnL&quot;: -6.4, &quot;Reason&quot;: &quot;AUTOMATED SELL - STOPLOSS TRIGGERED&quot;, &quot;Shares Sold&quot;: 16.0, &quot;Sell Price&quot;: 1.1}, {&quot;Date&quot;: &quot;2026-09-01&quot;, &quot;Ticker&quot;: &quot;ACTU&quot;, &quot;Shares Bought&quot;: NaN, &quot;Buy Price&quot;: NaN, &quot;Cost Basis&quot;: 5.75, &quot;PnL&quot;: -5.16, &quot;Reason&quot;: &quot;AUTOMATED SELL - STOPLOSS TRIGGERED&quot;, &quot;Shares Sold&quot;: 6.0, &quot;Sell Price&quot;: 4.89}]");
         
         // Update total equity
         if (portfolioData.length > 0) {
